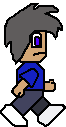
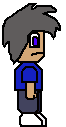
update

Changed region(s): [[0.0, 0.0236, 1.0, 1.0], [0.6364, 0.0945, 0.697, 0.1181]]

diff --git a/Pygame.py b/Pygame.py
@@ -22,17 +22,28 @@ bdr1_img = pygame.image.load('img/bdr2.png')
 
 class Player():
     def __init__(self, x, y):
-        img = pygame.image.load('img/guy1.png')
-        self.image = pygame.transform.scale(img, (40, 80))
+        self.images_right = []
+        self.images_left = []
+        self.index = 0
+        self.counter = 0
+        for num in range(1, 5):
+            img_right = pygame.image.load(f'img/guy{num}.png')
+            img_right = pygame.transform.scale(img_right, (40, 80))
+            img_left = pygame.transform.flip(img_right, True, False)
+            self.images_right.append(img_right)
+            self.images_left.append(img_left)
+        self.image = self.images_right[self.index]
         self.rect = self.image.get_rect()
         self.rect.x = x
         self.rect.y = y
         self.vel_y = 0
         self.jumped = False
+        self.direction = 0
 
     def update(self):
         dx = 0
         dy = 0
+        walk_cooldown = 5
 
         # Get key presses
         key = pygame.key.get_pressed()
@@ -43,8 +54,30 @@ class Player():
             self.jumped = False
         if key[pygame.K_LEFT]:
             dx -= 5
+            self.counter += 1
+            self.direction = -1
         if key[pygame.K_RIGHT]:
             dx += 5
+            self.counter += 1
+            self.direction = 1
+        if key[pygame.K_LEFT] == False and key[pygame.K_RIGHT] == False:
+            self.counter = 0
+            self.index = 0
+            if self.direction == 1:
+                self.image = self.images_right[self.index]
+            if self.direction == -1:
+                self.image = self.images_left[self.index]
+
+        # Handle animation.
+        if self.counter > walk_cooldown:
+            self.counter = 0
+            self.index += 1
+            if self.index >= len(self.images_right):
+                self.index = 0
+            if self.direction == 1:
+                self.image = self.images_right[self.index]
+            if self.direction == -1:
+                self.image = self.images_left[self.index]
 
         # Add gravity
         self.vel_y += 1
